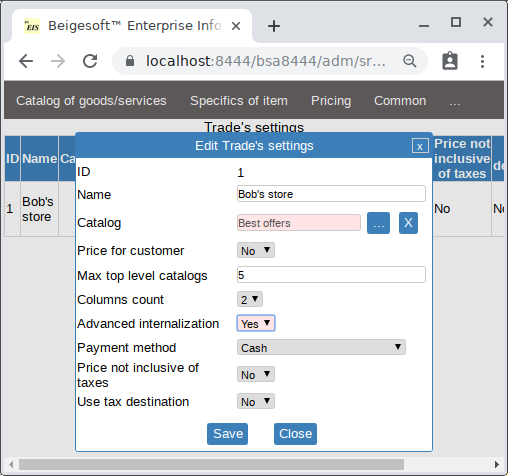
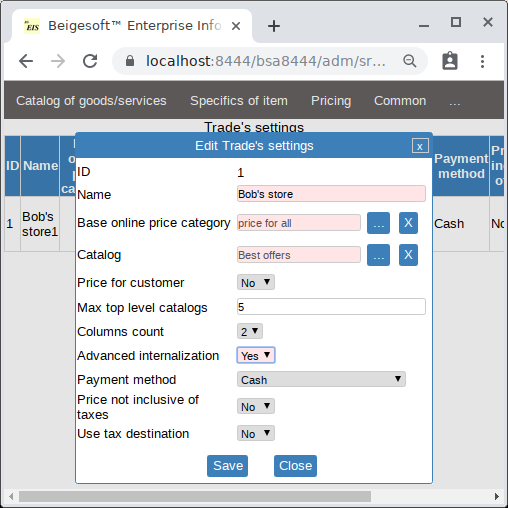
fixed WS, docs

diff --git a/src/main/java/org/beigesoft/acc/srv/UtInLnTxToBs.java b/src/main/java/org/beigesoft/acc/srv/UtInLnTxToBs.java
@@ -206,12 +206,12 @@ public class UtInLnTxToBs<RS> {
               if (pTxRules.getStIb()) { //invoice basis:
                 if (pLine.getOwnr().getInTx()) {
                   taxAggegated = txdLn.getTot().subtract(txdLn.getTot()
-                    .divide(BigDecimal.ONE.add(txdLn.getTxCt().getAgRt()
-                      .divide(bd100)), pAs.getPrDp(), pTxRules.getStRm()));
+              .divide(BigDecimal.ONE.add(txdLn.getTxCt().getAgRt().divide(bd100,
+            15, RoundingMode.HALF_UP)), pAs.getPrDp(), pTxRules.getStRm()));
                   if (pLine.getOwnr().getCuFr() != null) {
                     taxAggegatedFc = txdLn.getToFc().subtract(txdLn.getToFc()
-                      .divide(BigDecimal.ONE.add(txdLn.getTxCt().getAgRt()
-                        .divide(bd100)), pAs.getPrDp(), pTxRules.getStRm()));
+              .divide(BigDecimal.ONE.add(txdLn.getTxCt().getAgRt().divide(bd100,
+            15, RoundingMode.HALF_UP)), pAs.getPrDp(), pTxRules.getStRm()));
                   }
                 } else {
                   taxAggegated = txdLn.getSubt().multiply(txdLn
@@ -570,9 +570,11 @@ public class UtInLnTxToBs<RS> {
             BigDecimal totbd = BigDecimal.valueOf(tot);
             BigDecimal totbdf = BigDecimal.valueOf(totf);
             txv = totbd.subtract(totbd.divide(BigDecimal.ONE.add(prbd
-              .divide(bd100)), pAs.getPrDp(), pTxRules.getStRm()));
+              .divide(bd100, 15, RoundingMode.HALF_UP)),
+                pAs.getPrDp(), pTxRules.getStRm()));
             txvf = totbdf.subtract(totbdf.divide(BigDecimal.ONE.add(prbd
-              .divide(bd100)), pAs.getPrDp(), pTxRules.getStRm()));
+              .divide(bd100, 15, RoundingMode.HALF_UP)),
+                pAs.getPrDp(), pTxRules.getStRm()));
             tctx.setTxb(totbd);
             tctx.setTxbFc(totbdf);
           }
@@ -714,12 +716,12 @@ public class UtInLnTxToBs<RS> {
           BigDecimal bd100 = new BigDecimal("100.00");
           if (pLine.getOwnr().getInTx()) {
             totTxs = pLine.getTot().subtract(pLine.getTot().divide(BigDecimal
-              .ONE.add(pLine.getTxCt().getAgRt().divide(bd100)), pAs
-                .getPrDp(), pTxRules.getStRm()));
+              .ONE.add(pLine.getTxCt().getAgRt().divide(bd100, 15,
+                RoundingMode.HALF_UP)), pAs.getPrDp(), pTxRules.getStRm()));
             if (pLine.getOwnr().getCuFr() != null) {
             totTxsFc = pLine.getToFc().subtract(pLine.getToFc()
-              .divide(BigDecimal.ONE.add(pLine.getTxCt().getAgRt()
-                .divide(bd100)), pAs.getPrDp(), pTxRules.getStRm()));
+              .divide(BigDecimal.ONE.add(pLine.getTxCt().getAgRt().divide(bd100,
+                15, RoundingMode.HALF_UP)), pAs.getPrDp(), pTxRules.getStRm()));
             }
           } else {
             totTxs = pLine.getSubt().multiply(pLine.getTxCt()
@@ -1070,13 +1072,13 @@ public class UtInLnTxToBs<RS> {
     BigDecimal taxRestFc = null;
     if (pLine.getOwnr().getInTx()) {
       taxTot = pLine.getTot().subtract(pLine.getTot().divide(BigDecimal.ONE
-        .add(pLine.getTxCt().getAgRt().divide(bd100)), pAs.getPrDp(),
-          pTxRules.getStRm()));
+        .add(pLine.getTxCt().getAgRt().divide(bd100, 15, RoundingMode.HALF_UP)),
+          pAs.getPrDp(), pTxRules.getStRm()));
       taxRest = taxTot;
       if (pLine.getOwnr().getCuFr() != null) {
         taxTotFc = pLine.getToFc().subtract(pLine.getToFc()
-          .divide(BigDecimal.ONE.add(pLine.getTxCt().getAgRt()
-            .divide(bd100)), pAs.getPrDp(), pTxRules.getStRm()));
+          .divide(BigDecimal.ONE.add(pLine.getTxCt().getAgRt().divide(bd100,
+            15, RoundingMode.HALF_UP)), pAs.getPrDp(), pTxRules.getStRm()));
         taxRestFc = taxTotFc;
       }
     }

diff --git a/src/main/java/org/beigesoft/ws/srv/SrCart.java b/src/main/java/org/beigesoft/ws/srv/SrCart.java
@@ -413,8 +413,8 @@ public class SrCart<RS> implements ISrCart {
               if (pTxRls.getStIb()) { //invoice basis:
                 if (!pTs.getTxExcl()) {
                   txAgr = txdLn.getTot().subtract(txdLn.getTot().divide(
-                BigDecimal.ONE.add(txdLn.getTxCt().getAgRt()
-              .divide(bd100, pAs.getPrDp(), pTxRls.getStRm()))));
+               BigDecimal.ONE.add(txdLn.getTxCt().getAgRt().divide(bd100,
+            15, RoundingMode.HALF_UP)), pAs.getPrDp(), pTxRls.getStRm()));
                 } else {
                   txAgr = txdLn.getSubt().multiply(txdLn.getTxCt()
                 .getAgRt()).divide(bd100, pAs.getPrDp(), pTxRls.getStRm());
@@ -818,8 +818,8 @@ public class SrCart<RS> implements ISrCart {
           BigDecimal taxRest = null;
           if (!pTs.getTxExcl()) {
             taxTot = pCaLn.getTot().subtract(pCaLn.getTot().divide(BigDecimal
-              .ONE.add(pCaLn.getTxCt().getAgRt().divide(bd100)),
-                pAs.getPrDp(), pTxRls.getStRm()));
+    .ONE.add(pCaLn.getTxCt().getAgRt().divide(bd100, 15, RoundingMode.HALF_UP)),
+  pAs.getPrDp(), pTxRls.getStRm()));
             taxRest = taxTot;
           }
           StringBuffer sb = new StringBuffer();
@@ -855,8 +855,8 @@ public class SrCart<RS> implements ISrCart {
         } else {
           if (!pTs.getTxExcl()) {
             toTxs = pCaLn.getTot().subtract(pCaLn.getTot().divide(BigDecimal.ONE
-              .add(pCaLn.getTxCt().getAgRt().divide(bd100)),
-                pAs.getPrDp(), pTxRls.getStRm()));
+        .add(pCaLn.getTxCt().getAgRt().divide(bd100, 15, RoundingMode.HALF_UP)),
+      pAs.getPrDp(), pTxRls.getStRm()));
           } else {
             toTxs = pCaLn.getSubt().multiply(pCaLn.getTxCt()
               .getAgRt()).divide(bd100, pAs.getPrDp(), pTxRls.getStRm());
@@ -1042,6 +1042,7 @@ public class SrCart<RS> implements ISrCart {
           query = lazQuItemSePrice();
         }
         query = query.replace(":ITMID", pItId.toString());
+        query = query.replace(":PRICTID", pTs.getPrCtb().getIid().toString());
         query = query.replace(":LNG", lang);
         query = query.replace(":TITMPRI", itPriCl.getSimpleName()
           .toUpperCase());
@@ -1052,7 +1053,7 @@ public class SrCart<RS> implements ISrCart {
           getOrm().retLstQu(pRvs, vs, itPriCl, query);
       } else {
         itPris = (List<AItmPri<?, ?>>) getOrm().retLstCnd(pRvs, vs, itPriCl,
-          "where ITM=" + pItId);
+          "where ITM=" + pItId + " and PRICT=" + pTs.getPrCtb().getIid());
       }
       if (itPris.size() == 0) {
         throw new ExcCode(ExcCode.WR, "requested item has no price");

diff --git a/src/main/java/org/beigesoft/ws/mdlp/TrdStg.java b/src/main/java/org/beigesoft/ws/mdlp/TrdStg.java
@@ -83,6 +83,12 @@ public class TrdStg extends AIdLnNm {
    **/
   private Boolean utxds = Boolean.FALSE;
 
+  /**
+   * <p>Base online price category, not null,
+   * must be set after it was added.</p>
+   **/
+  private PriCt prCtb;
+
   //Simple getters and setters:
   /**
    * <p>Getter for priCus.</p>
@@ -210,5 +216,21 @@ public class TrdStg extends AIdLnNm {
    **/
   public final void setUtxds(final Boolean pUtxds) {
     this.utxds = pUtxds;
+  }
+
+  /**
+   * <p>Getter for prCtb.</p>
+   * @return PriCt
+   **/
+  public final PriCt getPrCtb() {
+    return this.prCtb;
+  }
+
+  /**
+   * <p>Setter for prCtb.</p>
+   * @param pPrCtb reference
+   **/
+  public final void setPrCtb(final PriCt pPrCtb) {
+    this.prCtb = pPrCtb;
   }
 }
